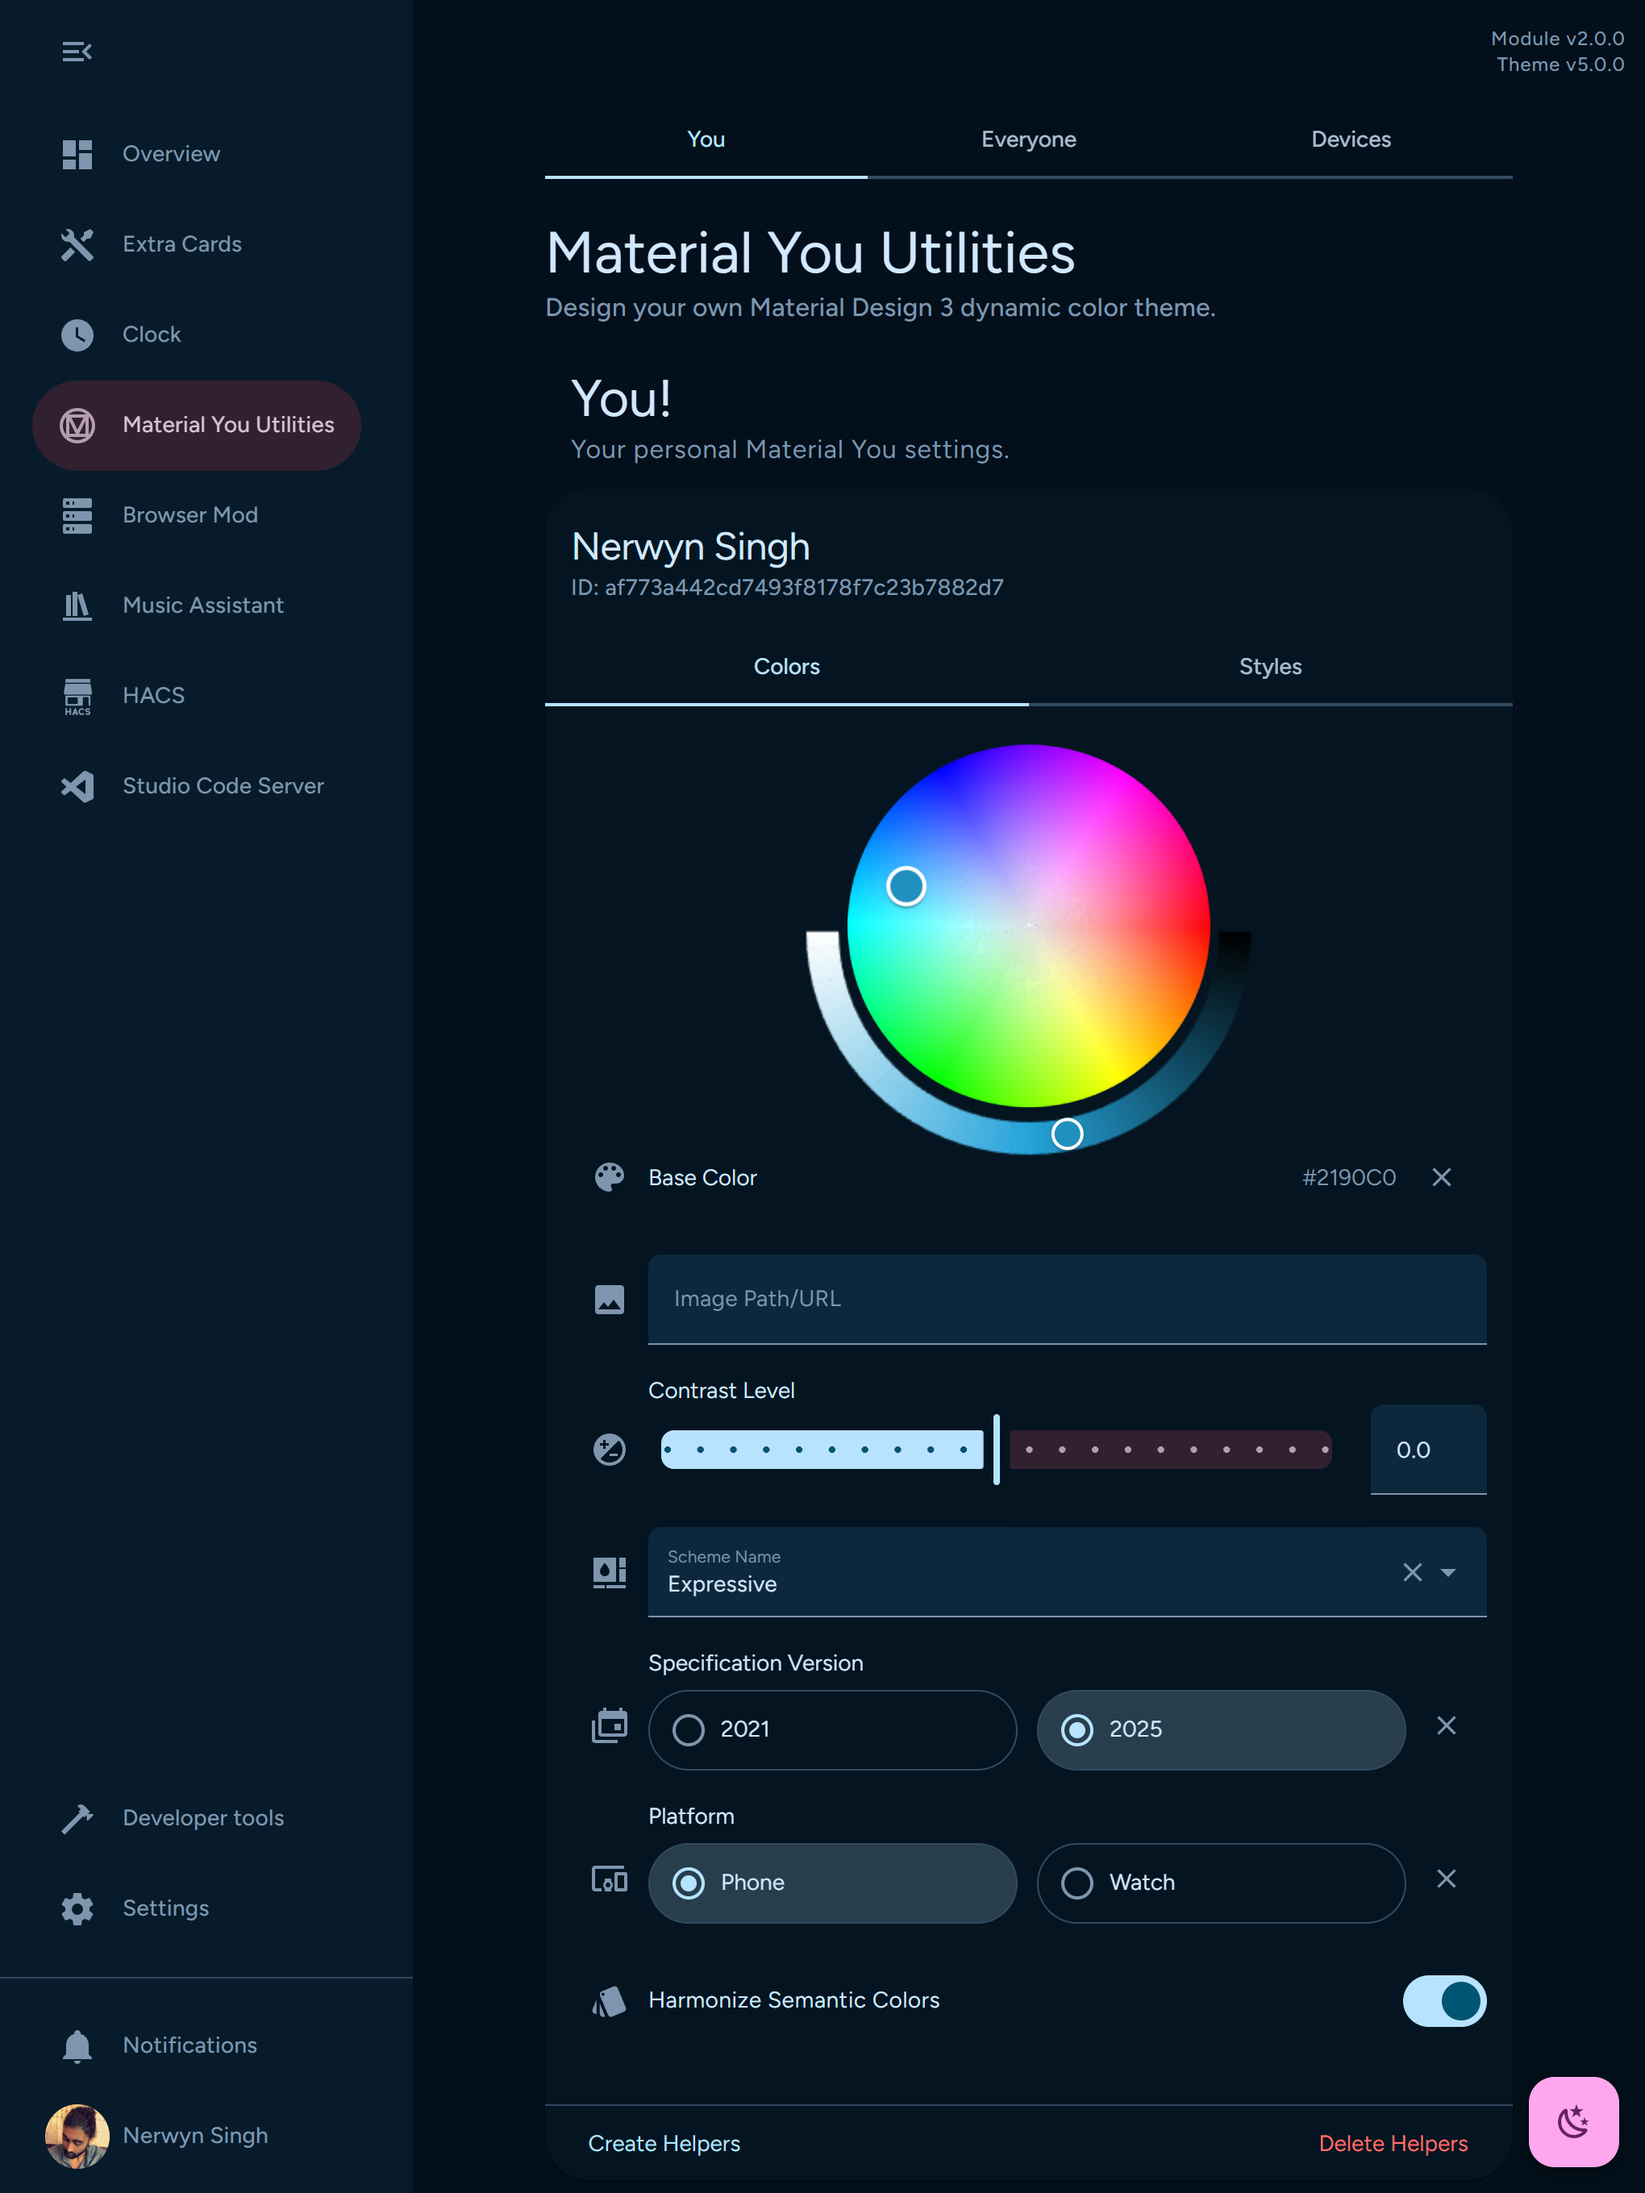
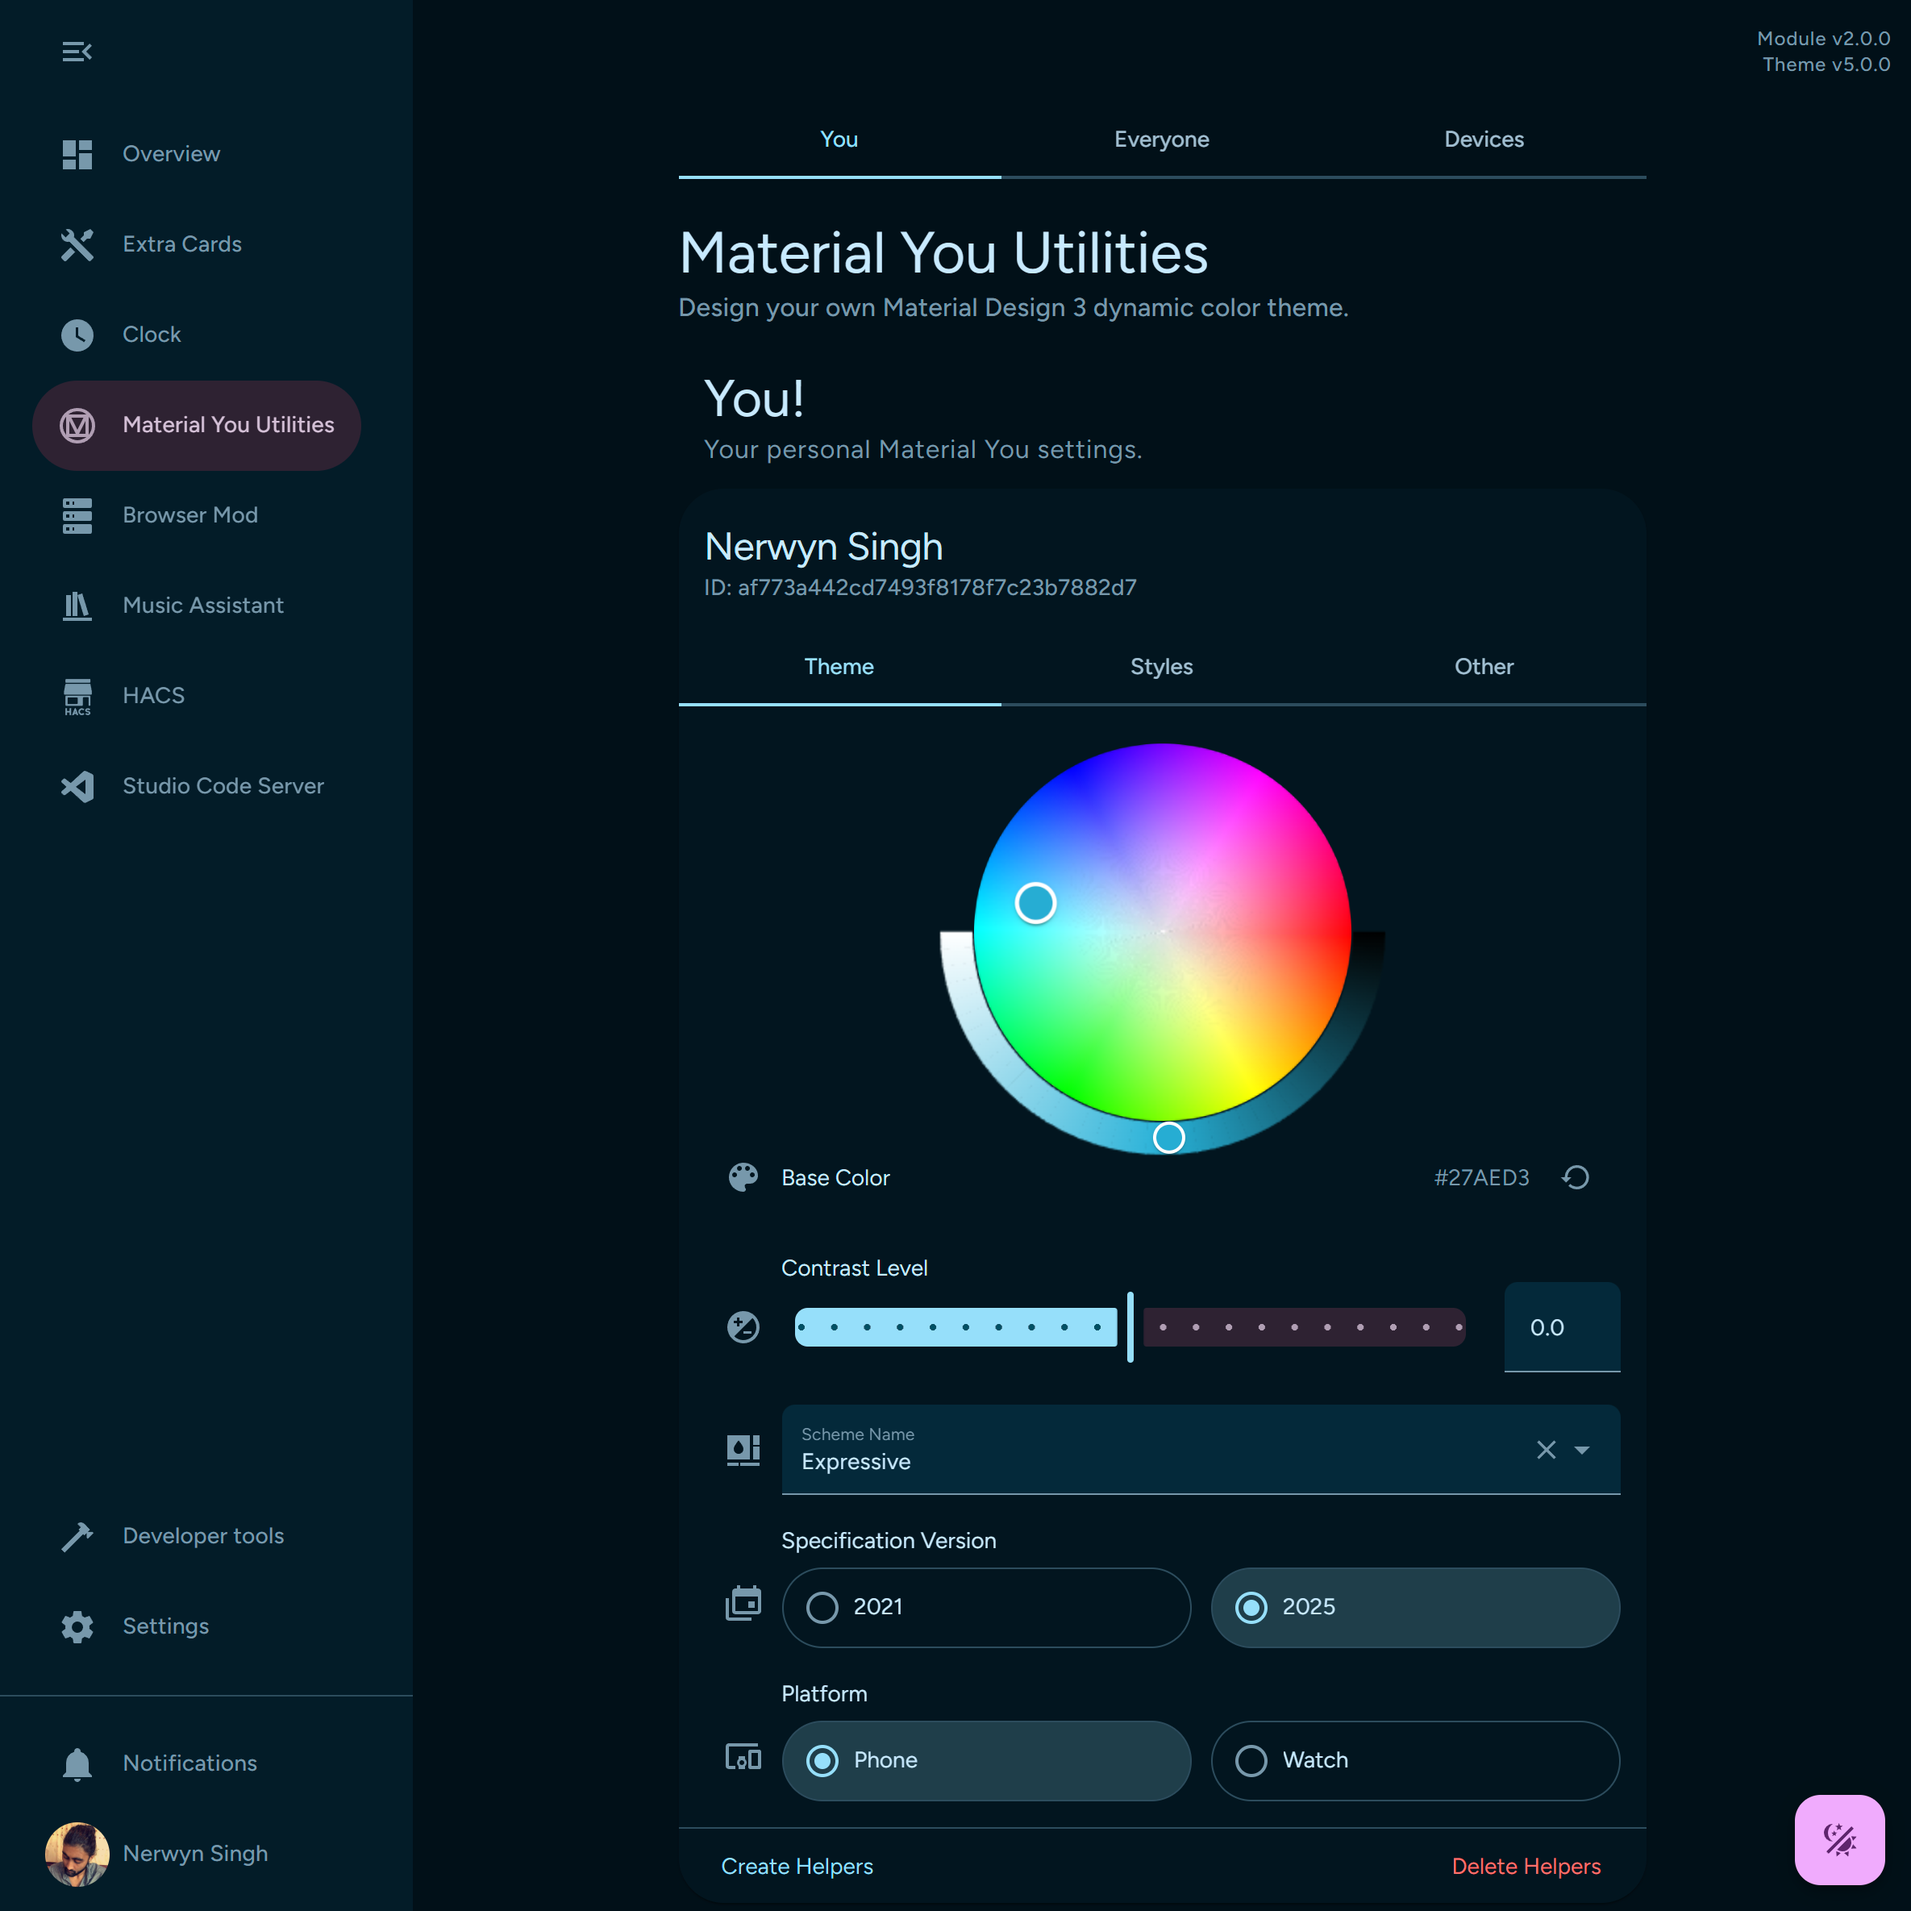
README updates

diff --git a/README.md b/README.md
@@ -81,7 +81,7 @@ The third tab is for device specific settings. You can setup input helpers speci
 
 ## Settings Cards
 
-Each settings card has the same fields for users, devices, and global settings. Setting are divided into two tabs - colors and styles.
+Each settings card has the same fields for users, devices, and global settings. Setting are divided into three tabs - theme, styles, and other.
 
 ### Colors
 
@@ -117,12 +117,6 @@ actions:
       entity_id: input_text.material_you_base_color
 ```
 
-#### Image Path/URL
-
-Instead of explicitly defining your theme base color, you can instead provide the local path or external URL to an image in this input. This image can be hosted on your Home Assistant server in the `config/www` folder or be from an external website ([with CORS approval](https://developer.mozilla.org/en-US/docs/Web/HTML/How_to/CORS_enabled_image)). A set of up to four possible base colors will be derived from this image from you to choose from and set to the base color field. You can choose between the possible options by appending the query string `?i=` to the end of your image path or URL, setting i to a number between 0 and 3 inclusive.
-
-Note that changing image file by itself but not changing the name will not trigger a color theme update. Color theme generation triggers on first page load, when an input's value changes, or (admin only) when a set theme action is called.
-
 #### Contrast Level
 
 The contrast level is a number from -1 to 1 which defines how much colors in the theme will differ and how bright they are.
@@ -153,10 +147,6 @@ With the Material Expressive update, Material Design 3 now has new specification
 
 The 2025 color specification has two platform options - `Phone` and `Watch`. While you probably want to keep this at the default `Phone` setting, you have the ability to choose. Note that the `Watch` platform does not work well with light mode.
 
-### Harmonize Semantic Colors
-
-Semantic colors, such as red, orange, warning, info, etc., are normally static and can appear visually displeasing with certain theme palettes. Enabling this option will hue shift semantic colors towards the theme primary color, helping them better match the theme.
-
 ### Styles
 
 #### Style Upgrades
@@ -169,13 +159,25 @@ The Material Design 3 specification has [three different card type style variati
 
 Some cards, like those found in the configuration pages, already have the attribute `outlined`. This attribute will supersede the default `elevated` card style or user chosen card type.
 
-#### CSS Path/URL
-
-You can choose to provide your own CSS styles in a file and then provide the local path or external URL in this input. This CSS file can be hosted on your Home Assistant server in the `config/www` folder or be from an external website. This is useful for applying more in depth custom themes created using [Material Theme Builder](https://material-foundation.github.io/material-theme-builder/), or if you just want to override certain theme values.
-
 #### Show Navigation Bar
 
 You can choose to disable the navigation bar shown in views by toggling this setting off. This is useful if you want to use an alternate view navigation system such as [Navbar Card](https://github.com/joseluis9595/lovelace-navbar-card). Note that this does not disable navigation bar styles and restore the default view tabs, it hides them entirely.
+
+### Other
+
+#### Harmonize Semantic Colors
+
+Semantic colors, such as red, orange, warning, info, etc., are normally static and can appear visually displeasing with certain theme palettes. Enabling this option will hue shift semantic colors towards the theme primary color, helping them better match the theme.
+
+#### Base Color Source Image Path/URL
+
+Instead of explicitly defining your theme base color, you can instead provide the local path or external URL to an image in this input. This image can be hosted on your Home Assistant server in the `config/www` folder or be from an external website ([with CORS approval](https://developer.mozilla.org/en-US/docs/Web/HTML/How_to/CORS_enabled_image)). A set of up to four possible base colors will be derived from this image from you to choose from and set to the base color field. You can choose between the possible options by appending the query string `?i=` to the end of your image path or URL, setting i to a number between 0 and 3 inclusive.
+
+Note that changing image file by itself but not changing the name will not trigger a color theme update. Color theme generation triggers on first page load, when an input's value changes, or (admin only) when a set theme action is called.
+
+#### CSS Path/URL
+
+You can choose to provide your own CSS styles in a file and then provide the local path or external URL in this input. This CSS file can be hosted on your Home Assistant server in the `config/www` folder or be from an external website. This is useful for applying more in depth custom themes created using [Material Theme Builder](https://material-foundation.github.io/material-theme-builder/), or if you just want to override certain theme values.
 
 ## Theme Mode FAB
 
